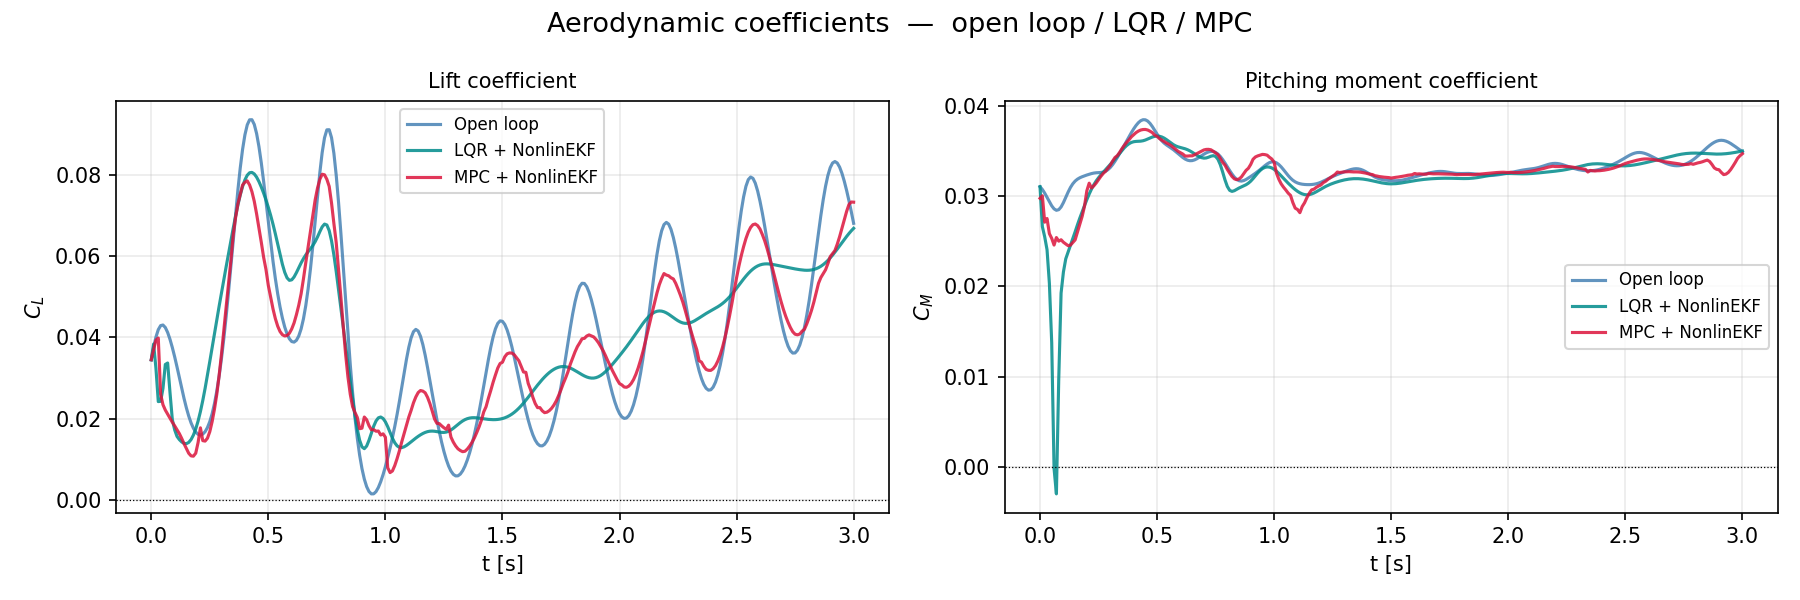
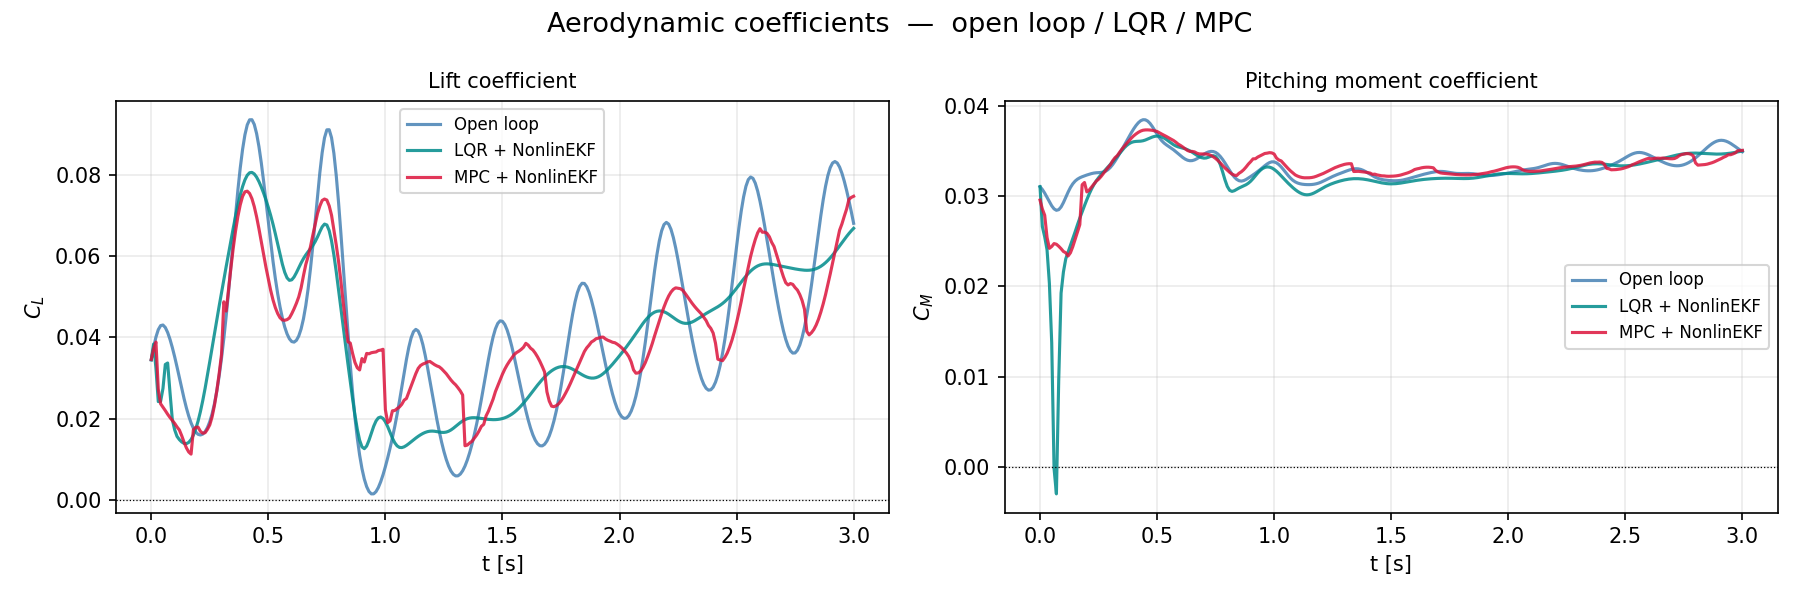
MPC batte LQR su primo picco e quasi sul secondo

diff --git a/src/optimize_weights.py b/src/optimize_weights.py
@@ -1,0 +1,308 @@
+#!/usr/bin/env python3
+"""
+Numerical optimisation of LQR and MPC weight vectors to minimise the
+L2 norm of C_L deviation from trim over a closed-loop gust simulation.
+
+Objective (same for both controllers):
+    f(θ) = Σ_k (C_L_k - CL_trim)² · Δt  +  λ_δ · Σ_k δ_k² · Δt
+
+Weight parameterisation (log-scale to handle orders-of-magnitude differences):
+    θ_LQR = [log Q_CL, log Q_CM, log Q_H, log Q_A, log R]         (5 params)
+    θ_MPC = [log Q_CL, log Q_CM, log Q_H, log Q_A, log R, log R_du] (6 params)
+
+Fixed (not optimised):
+    LQR: Q_w, lambda_w
+    MPC: Q_dCL, ddelta_max, N_HOR
+
+Usage:
+    python optimize_weights.py --target lqr
+    python optimize_weights.py --target mpc
+    python optimize_weights.py --target both   (sequential: LQR first, then MPC)
+"""
+import sys, argparse, json
+import numpy as np
+from pathlib import Path
+from scipy.optimize import minimize
+
+SRC_DIR    = Path(__file__).parent
+MODELS_DIR = SRC_DIR.parent / 'models'
+OUT_DIR    = SRC_DIR.parent / 'results' / 'weight_optim'
+OUT_DIR.mkdir(parents=True, exist_ok=True)
+
+sys.path.insert(0, str(SRC_DIR))
+
+from aerodynamics.model    import LDNetModel
+from control.lqr           import LQRController
+from control.mpc           import MPCController, run_mpc_simulation
+from control.ekf_augmented import NonlinearEKF
+from structural.smd        import get_space_state_matrices
+
+# ── Fixed simulation parameters ───────────────────────────────────────────────
+U_INF      = 75.0
+T_END      = 3.0
+DT         = 0.01
+LAMBDA_W   = 0.98
+GUST_W0    = 60.0
+GUST_TG    = 1.0
+Q_w        = 1.0 / 10.0**2   # fixed W-state weight in LQR DARE
+Q_dCL      = 1.0              # fixed MPC smoothing term
+DDELTA_MAX = 150.0            # fixed MPC rate limit [°/s]
+N_HOR      = 80               # fixed MPC horizon
+
+# Penalty on control effort in the outer objective (keeps actuator sane)
+LAMBDA_DELTA = 1e-4
+
+# ── Bounds in log-space ───────────────────────────────────────────────────────
+# Each entry: (log_lower, log_upper)
+BOUNDS_LQR = [
+    (np.log(10),   np.log(5000)),   # Q_CL
+    (np.log(10),   np.log(5000)),   # Q_CM
+    (np.log(1e3),  np.log(5e5)),    # Q_H
+    (np.log(1e3),  np.log(5e5)),    # Q_A
+    (np.log(0.01), np.log(10)),     # R
+]
+
+BOUNDS_MPC = [
+    (np.log(10),   np.log(5000)),   # Q_CL
+    (np.log(10),   np.log(5000)),   # Q_CM
+    (np.log(1e3),  np.log(5e5)),    # Q_H
+    (np.log(1e3),  np.log(5e5)),    # Q_A
+    (np.log(0.01), np.log(10)),     # R
+    (np.log(0.01), np.log(10)),     # R_du
+]
+
+# ── Current best weights (starting point = values from mpc_observer_comparison) ─
+THETA0_LQR = np.array([
+    np.log(1.0  / 0.0484**2),   # Q_CL ≈ 427
+    np.log(1.0  / 0.04**2),     # Q_CM = 625
+    np.log(1.0  / 0.00428**2),  # Q_H  ≈ 54k
+    np.log(10.0 / 0.00823**2),  # Q_A  ≈ 148k
+    np.log(1.0  / 2.0**2),      # R    = 0.25
+])
+
+THETA0_MPC = np.array([
+    np.log(1.0  / 0.0484**2),   # Q_CL
+    np.log(1.0  / 0.04**2),     # Q_CM
+    np.log(1.0  / 0.00428**2),  # Q_H
+    np.log(10.0 / 0.00823**2),  # Q_A
+    np.log(1.0  / 2.0**2),      # R
+    np.log(2.0  / 2.0**2),      # R_du = 0.5
+])
+
+
+def gust(t):
+    if 0.0 <= t <= GUST_TG:
+        return (GUST_W0 / 2.0) * (1.0 - np.cos(2.0 * np.pi * t / GUST_TG))
+    return 0.0
+
+
+def unpack_lqr(theta):
+    Q_CL, Q_CM, Q_H, Q_A, R = np.exp(theta)
+    return Q_CL, Q_CM, Q_H, Q_A, R
+
+
+def unpack_mpc(theta):
+    Q_CL, Q_CM, Q_H, Q_A, R, R_du = np.exp(theta)
+    return Q_CL, Q_CM, Q_H, Q_A, R, R_du
+
+
+def objective(C_L_arr, delta_arr, CL_trim, dt):
+    """
+    L2 cost: integral of (C_L - CL_trim)^2 + lambda * delta^2
+    """
+    cl_dev = C_L_arr - CL_trim
+    return (np.sum(cl_dev**2) + LAMBDA_DELTA * np.sum(delta_arr**2)) * dt
+
+
+# ── LQR objective ─────────────────────────────────────────────────────────────
+
+def make_lqr_objective(aero_model, z_trim, CL_trim, CM_trim, A_s, B_s, xi_trim):
+
+    eval_count = [0]
+
+    def f(theta):
+        eval_count[0] += 1
+        Q_CL, Q_CM, Q_H, Q_A, R = unpack_lqr(theta)
+
+        try:
+            lqr = LQRController(
+                aero_model, U_INF, DT,
+                x_trim=np.zeros(4), z_trim=z_trim,
+                Q_lqr=np.diag([Q_H, 0., Q_A, 0., 0.]),
+                R_lqr=np.array([[R]]),
+                CL_trim=CL_trim, CM_trim=CM_trim,
+                Q_y=np.diag([Q_CL, Q_CM]),
+                Q_w=Q_w, lambda_w=LAMBDA_W, delta_max=20.0)
+
+            ekf = NonlinearEKF(aero_model, U_INF, DT, xi_trim, lambda_w=LAMBDA_W)
+
+            res = run_mpc_simulation(
+                U_INF, T_END, DT, aero_model, lqr, A_s, B_s,
+                gust_profile=gust,
+                observer='ekf_ad',
+                kalman_filter=ekf)
+
+            cost = objective(res['C_L'], res['delta'], CL_trim, DT)
+
+        except Exception as e:
+            print(f"    [WARN] eval {eval_count[0]}: {e}")
+            cost = 1e6
+
+        print(f"  LQR eval {eval_count[0]:3d}  cost={cost:.6f}  "
+              f"Q_CL={Q_CL:.0f}  Q_CM={Q_CM:.0f}  "
+              f"Q_H={Q_H:.0f}  Q_A={Q_A:.0f}  R={R:.4f}")
+        return cost
+
+    return f
+
+
+# ── MPC objective ─────────────────────────────────────────────────────────────
+
+def make_mpc_objective(aero_model, CL_trim, CM_trim, A_s, B_s, xi_trim):
+
+    eval_count = [0]
+
+    def f(theta):
+        eval_count[0] += 1
+        Q_CL, Q_CM, Q_H, Q_A, R, R_du = unpack_mpc(theta)
+
+        try:
+            mpc = MPCController(
+                aero_model, U_INF, DT,
+                Q_CL=Q_CL, Q_CM=Q_CM,
+                Q_h=Q_H,   Q_a=Q_A,
+                Q_dCL=Q_dCL,
+                R=R, R_du=R_du, N=N_HOR,
+                delta_max=20.0, CL_trim=CL_trim, CM_trim=CM_trim,
+                use_tf_solver=True, ddelta_max=DDELTA_MAX)
+
+            ekf = NonlinearEKF(aero_model, U_INF, DT, xi_trim, lambda_w=LAMBDA_W)
+
+            res = run_mpc_simulation(
+                U_INF, T_END, DT, aero_model, mpc, A_s, B_s,
+                gust_profile=gust,
+                observer='ekf_ad',
+                kalman_filter=ekf)
+
+            cost = objective(res['C_L'], res['delta'], CL_trim, DT)
+
+        except Exception as e:
+            print(f"    [WARN] eval {eval_count[0]}: {e}")
+            cost = 1e6
+
+        print(f"  MPC eval {eval_count[0]:3d}  cost={cost:.6f}  "
+              f"Q_CL={Q_CL:.0f}  Q_CM={Q_CM:.0f}  "
+              f"Q_H={Q_H:.0f}  Q_A={Q_A:.0f}  "
+              f"R={R:.4f}  R_du={R_du:.4f}")
+        return cost
+
+    return f
+
+
+# ── Nelder-Mead wrapper ───────────────────────────────────────────────────────
+
+def run_nelder_mead(f, theta0, bounds, label, max_iter=300):
+    print(f"\n{'='*60}")
+    print(f"  Nelder-Mead optimisation — {label}")
+    print(f"  n_params={len(theta0)}  max_iter={max_iter}")
+    print(f"{'='*60}")
+
+    result = minimize(
+        f, theta0,
+        method='Nelder-Mead',
+        bounds=bounds,
+        options={
+            'maxiter':  max_iter,
+            'xatol':    1e-3,
+            'fatol':    1e-5,
+            'adaptive': True,   # scales simplex to n_params automatically
+            'disp':     True,
+        }
+    )
+
+    print(f"\n  Converged: {result.success}  ({result.message})")
+    print(f"  Final cost: {result.fun:.6f}")
+    return result
+
+
+def print_weights(label, theta, unpack_fn):
+    vals = np.exp(theta)
+    names_lqr = ['Q_CL', 'Q_CM', 'Q_H', 'Q_A', 'R']
+    names_mpc = ['Q_CL', 'Q_CM', 'Q_H', 'Q_A', 'R', 'R_du']
+    names = names_mpc if len(theta) == 6 else names_lqr
+    print(f"\n  Optimal {label} weights:")
+    for n, v in zip(names, vals):
+        print(f"    {n:<8} = {v:.4g}")
+
+
+def save_result(label, theta, cost):
+    vals = np.exp(theta).tolist()
+    names_lqr = ['Q_CL', 'Q_CM', 'Q_H', 'Q_A', 'R']
+    names_mpc = ['Q_CL', 'Q_CM', 'Q_H', 'Q_A', 'R', 'R_du']
+    names = names_mpc if len(theta) == 6 else names_lqr
+    out = {'cost': cost, 'weights': dict(zip(names, vals)), 'theta_log': theta.tolist()}
+    path = OUT_DIR / f'optimal_{label.lower()}.json'
+    path.write_text(json.dumps(out, indent=2))
+    print(f"  Saved → {path}")
+
+
+# ── Entry point ───────────────────────────────────────────────────────────────
+
+def main():
+    parser = argparse.ArgumentParser()
+    parser.add_argument('--target', choices=['lqr', 'mpc', 'both'],
+                        default='both', help='Which controller to optimise')
+    parser.add_argument('--max-iter', type=int, default=300,
+                        help='Max Nelder-Mead iterations per controller')
+    parser.add_argument('--resume-lqr', type=str, default=None,
+                        help='Path to JSON with previous LQR result (warm start)')
+    parser.add_argument('--resume-mpc', type=str, default=None,
+                        help='Path to JSON with previous MPC result (warm start)')
+    args = parser.parse_args()
+
+    print("Loading model and computing trim...")
+    aero_model = LDNetModel(str(MODELS_DIR))
+    z_trim = np.zeros(aero_model.num_latent_states)
+    for _ in range(200):
+        z_trim, CL_trim, CM_trim = aero_model.step(
+            z_trim, 0., 0., 0., 0., 0., 0., U_INF, DT)
+    CL_trim = float(CL_trim)
+    CM_trim = float(CM_trim)
+    print(f"  Trim: CL={CL_trim:.4f}  CM={CM_trim:.4f}")
+
+    A_s, B_s, _, _ = get_space_state_matrices()
+    xi_trim = np.concatenate([np.zeros(4), z_trim, [0.0]])
+
+    # Warm-start from previous run if provided
+    theta0_lqr = THETA0_LQR.copy()
+    theta0_mpc = THETA0_MPC.copy()
+
+    if args.resume_lqr:
+        data = json.loads(Path(args.resume_lqr).read_text())
+        theta0_lqr = np.array(data['theta_log'])
+        print(f"  LQR warm-start from {args.resume_lqr}  (cost={data['cost']:.6f})")
+
+    if args.resume_mpc:
+        data = json.loads(Path(args.resume_mpc).read_text())
+        theta0_mpc = np.array(data['theta_log'])
+        print(f"  MPC warm-start from {args.resume_mpc}  (cost={data['cost']:.6f})")
+
+    if args.target in ('lqr', 'both'):
+        f_lqr = make_lqr_objective(aero_model, z_trim, CL_trim, CM_trim,
+                                    A_s, B_s, xi_trim)
+        res_lqr = run_nelder_mead(f_lqr, theta0_lqr, BOUNDS_LQR,
+                                   'LQR', args.max_iter)
+        print_weights('LQR', res_lqr.x, unpack_lqr)
+        save_result('lqr', res_lqr.x, res_lqr.fun)
+
+    if args.target in ('mpc', 'both'):
+        f_mpc = make_mpc_objective(aero_model, CL_trim, CM_trim,
+                                    A_s, B_s, xi_trim)
+        res_mpc = run_nelder_mead(f_mpc, theta0_mpc, BOUNDS_MPC,
+                                   'MPC', args.max_iter)
+        print_weights('MPC', res_mpc.x, unpack_mpc)
+        save_result('mpc', res_mpc.x, res_mpc.fun)
+
+
+if __name__ == '__main__':
+    main()

diff --git a/src/control/mpc.py b/src/control/mpc.py
@@ -15,7 +15,8 @@ class MPCController:
                  Q_CL=0.0, Q_CM=0.0, Q_h=0.0, Q_a=0.0,
                  R=1.0, R_du=0.0, N=10, delta_max=20.0,
                  CL_trim=0.0, CM_trim=0.0, Q_dCL=0.0,
-                 use_tf_solver=False, ddelta_max=None):
+                 use_tf_solver=False, ddelta_max=None,
+                 Q_CL_terminal=0.0, Q_h_terminal=0.0, Q_a_terminal=0.0):
         self.aero_model = aero_model
         self.U_INF      = U_INF
         self.DT         = DT
@@ -26,10 +27,13 @@ class MPCController:
         self.Q_dCL      = Q_dCL
         self.R          = R
         self.R_du       = R_du
-        self.N          = N
-        self.delta_max  = delta_max
-        self.CL_trim    = CL_trim
-        self.CM_trim    = CM_trim
+        self.N              = N
+        self.delta_max      = delta_max
+        self.CL_trim        = CL_trim
+        self.CM_trim        = CM_trim
+        self.Q_CL_terminal  = Q_CL_terminal
+        self.Q_h_terminal   = Q_h_terminal
+        self.Q_a_terminal   = Q_a_terminal
 
         self.use_tf_solver = use_tf_solver
         self.k_prev        = 0.0
@@ -52,8 +56,11 @@ class MPCController:
         U_INF  = tf.constant(self.U_INF, dtype=dtype)
         DT     = tf.constant(self.DT, dtype=dtype)
         q_dyn  = tf.constant(0.5 * 1.225 * self.U_INF**2 * 0.05, dtype=dtype)
-        CL_tr  = tf.constant(float(self.CL_trim), dtype=dtype)
-        CM_tr  = tf.constant(float(self.CM_trim), dtype=dtype)
+        CL_tr  = tf.constant(float(self.CL_trim),       dtype=dtype)
+        CM_tr  = tf.constant(float(self.CM_trim),       dtype=dtype)
+        Q_CLf  = tf.constant(float(self.Q_CL_terminal), dtype=dtype)
+        Q_hf   = tf.constant(float(self.Q_h_terminal),  dtype=dtype)
+        Q_af   = tf.constant(float(self.Q_a_terminal),  dtype=dtype)
 
         M_hh = tf.constant(float(M_WING + M_FLAP), dtype=dtype)
         M_aa = tf.constant(float(I_WING + I_FLAP_EA), dtype=dtype)
@@ -104,12 +111,14 @@ class MPCController:
                                + R*u_i**2 + R_du*(u_i - u_p)**2)
                     u_p  = u_i
                     CL_p = C_L
+                # Terminal cost on final state
+                J = J + Q_CLf*C_L**2 + Q_hf*x[0]**2 + Q_af*x[2]**2
             opt.apply_gradients([(tape.gradient(J, u_var), u_var)])
 
         return adam_step
 
     def solve_tf(self, x_hat, z_hat, W_gust_seq, CL_meas=0.0,
-                 gust_phase=True, n_steps=15):
+                 gust_phase=True, n_steps=30):
         """Adam optimisation on full u-sequence via @tf.function rollout."""
         dtype = tf.float64
         dm    = float(self.delta_max)
